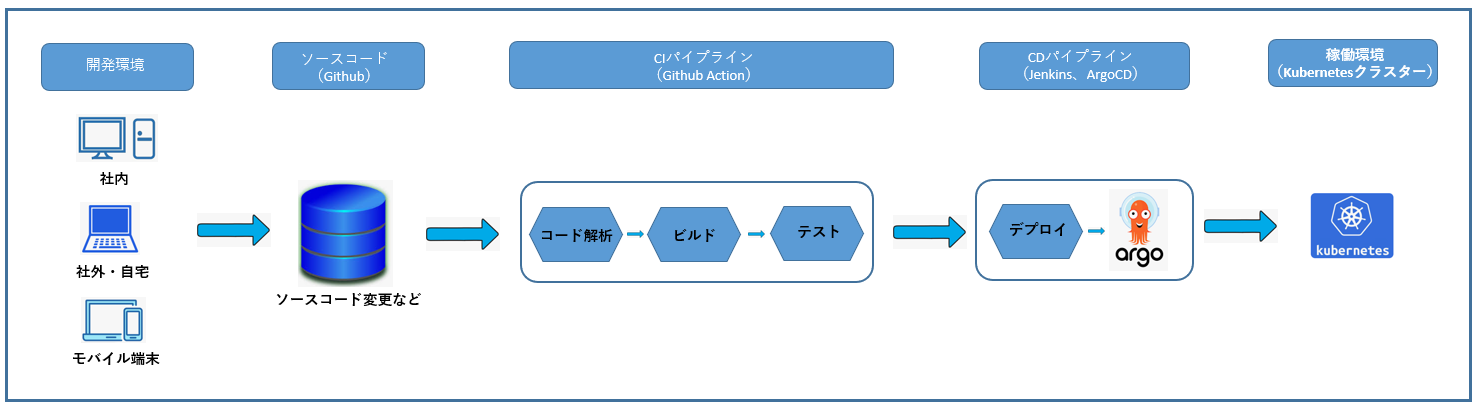
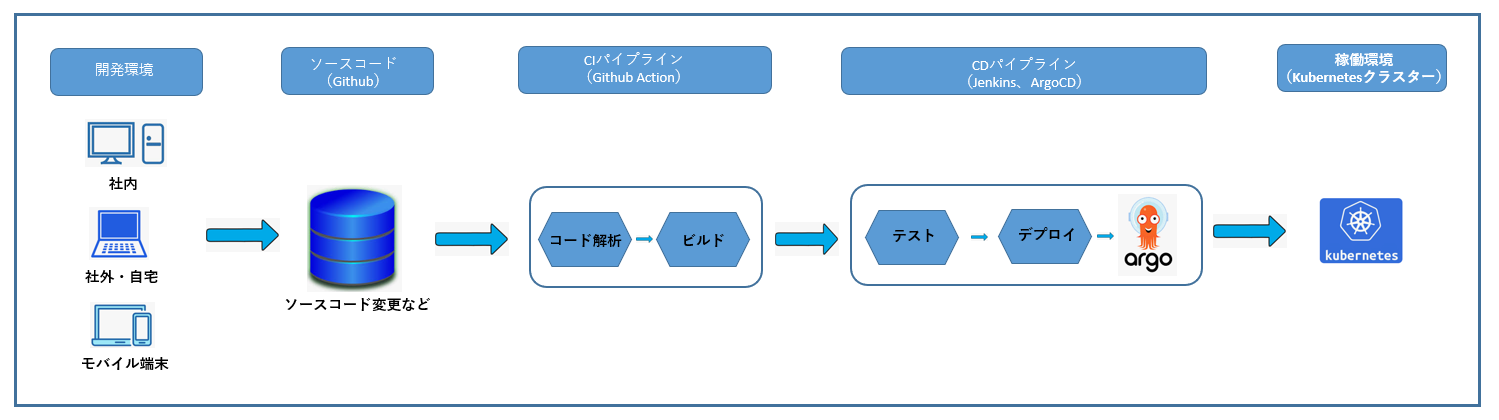
up

diff --git a/wwwroot/showlist-dx.php b/wwwroot/showlist-dx.php
@@ -1,0 +1,130 @@
+<!DOCTYPE html>
+<html>
+<?php include("./public/showlist-head.php"); ?>
+<?php include("./public/access-counter.php"); ?>
+<body>
+  <?php include("./public/scripts.php"); ?>
+  <?php include("./public/showlist-bodytop.php"); ?>
+
+  <main id="main">
+
+    <!-- ======= Breadcrumbs ======= -->
+    <section id="breadcrumbs" class="breadcrumbs">
+      <div class="container">
+        <h2>DX化＠Verimas</h2>
+        中小企業のDX化を！
+      </div>
+    </section><!-- End Breadcrumbs -->
+
+    <!-- ======= Blog Section ======= -->
+    <section id="blog" class="blog">
+      <div class="container" data-aos="fade-up">
+
+        <div class="row">
+
+          <div class="col-lg-8 entries">
+
+            <article class="entry">
+              <div class="entry-img">
+                <img src="img/5w1h-dx.jpeg" alt="" class="img-fluid hover-trans-img-big">
+              </div>
+              <h2 class="entry-title">
+                <a href="#">DX化への思考</a>
+              </h2>
+              <div class="entry-meta">
+                <ul>
+                  <li class="d-flex align-items-center"><i class="bi bi-calendar"></i> <a href="#"><time datetime="2023-08-01">August 01, 2023</time></a></li>
+                  <li class="d-flex align-items-center"><i class="bi bi-bell"></i> <a href="#"><?php echo $pageaccess_counter; ?> Read</a></li>
+                </ul>
+              </div>
+              <div class="entry-content">
+                <p>
+                DXって、何でしょうか。DXの正体・本質は？<br>
+                ビジネスの重宝5W1Hから考えたら。<br>
+                ・いつ(When)<br>
+                ・どこで(Where)<br>
+                ・だれが(Who)<br>
+                ・なにを(What)<br>
+                ・なぜ(Why)<br>
+                ・どのように(How)<br>
+                変化の激しい時代のなかで、答えも日々変わってくるでしょうか。<br>
+                大企業ではDX化推進の動きが活発ですが、中小企業においてはまだまだ浸透していないのが現状ですね。そもそも、中小企業においてDX化を推進する必要でしょうか。<br><br>
+                参考資料（経済産業省外部資料）：<br>
+                <a href="https://www.meti.go.jp/shingikai/mono_info_service/digital_transformation_kasoku/20201228_report.html" target="_blank">デジタルトランスフォーメーションの加速に向けた研究会 中間とりまとめ</a><br>
+                <a href="https://www.meti.go.jp/shingikai/mono_info_service/digital_transformation/20180907_report.html" target="_blank">DXレポート ～ITシステム「2025年の崖」克服とDXの本格的な展開～</a><br>
+                </p>
+              </div>
+            </article>
+
+            <article class="entry">
+              <div class="entry-img">
+                <img src="img/dx-3step.png" alt="" width="200%" class="img-fluid hover-trans-img-big">
+              </div>
+              <h2 class="entry-title">
+                <a href="#">DX化への3つのステップ</a>
+              </h2>
+              <div class="entry-content">
+                <p>
+                ・デジタイゼーション（Digitization）<br>
+                ・デジタライゼーション（Digitalization）<br>
+                ・デジタルトランスフォーメーション（DX）<br>
+                </p>
+              </div>
+            </article>
+
+            <article class="entry">
+              <!-- <div class="entry-img">
+                <img src="img/dx-verimas.png" alt="" width="200%" class="img-fluid hover-trans-img-big">
+              </div>-->
+              <h2 class="entry-title">
+                <a href="#">ヴェリマスのDX化取り組み</a>
+              </h2>
+              <div class="entry-content">
+                <p>
+                ・常にDX化5W1Hで業務プロセスを検視し、業務効率化及び生産性向上を求めます。<br>
+                ・業務データ全般をデジタル化した上で、データを段々蓄積し、データ分析・活用を展開します。<br>
+                ・社内コミュニケーションツールをデジタル化します。<br>
+                ・<a href="https://wiki.verimas.co.jp" target="_blank">Wikiシステム</a>をベースに、社内業務・開発業務を全般システム化し、可視化します。<br>
+                ・業務システム全般をクラウド化、システムメンテナンスを自動化します。<br>
+                ・社内も顧客向けでも、ITシステム及び製品開発において、アジャイル開発手法を導入し、積極的運用します。<br>
+                ・常に先端IT技術をキャッチアップし、試作や製品開発を行いながら、DX人材の育成やビジネスモデルの変革を求めます。<br>
+                </p>
+              </div>
+            </article>
+
+          </div>
+
+          <div class="col-lg-4">
+
+            <div class="sidebar">
+              <h3 class="sidebar-title">Tags</h3>
+              <div class="sidebar-item tags">
+                <ul>
+                  <li><a href="#">DX化思考</a></li>
+                  <li><a href="#">5W1H</a></li>
+                  <li><a href="#">中小企業DX化</a></li>
+                  <li><a href="#">デジタイゼーション（Digitization）</a></li>
+                  <li><a href="#">デジタライゼーション（Digitalization）</a></li>
+                  <li><a href="#">デジタルトランスフォーメーション（DX）</a></li>
+                </ul>
+              </div><!-- End sidebar tags-->
+
+              <?php $contacttype = "ショールーム - DX化思考"; ?>
+              <?php include("./public/showlist-contact.php"); ?>
+
+            </div><!-- End sidebar -->
+
+          </div><!-- End blog sidebar -->
+
+        </div>
+
+      </div>
+    </section><!-- End Blog Section -->
+
+  </main><!-- End #main -->
+
+  <?php include("./public/showlist-footer.php"); ?>
+
+</body>
+
+</html>

diff --git a/wwwroot/showroom.php b/wwwroot/showroom.php
@@ -23,6 +23,20 @@
                             </div>
                             <div class="tm-gallery-item">
                               <figure class="effect-bubba">
+                                <img src="img/showlist-dx.jpg" alt="" class="img-fluid">
+                                <figcaption>
+                                  <p style="text-align: left;">DX化取り組み＠Verimas<br>
+                                  <small>
+                                  ➡自身のDX化を推進する<br>
+                                  ➡DX技術人材を育成する<br>
+                                  </small>
+                                  </p>
+                                  <a href="showlist-dx.php" target="_self">View more</a>
+                                </figcaption>
+                              </figure>
+                            </div>
+                            <div class="tm-gallery-item">
+                              <figure class="effect-bubba">
                                 <img src="img/serverless.jpg" alt="" class="img-fluid">
                                 <figcaption>
                                   <p style="text-align: left;">PeTorchインフラ<br>

diff --git a/wwwroot/public/showlist-bodytop.php b/wwwroot/public/showlist-bodytop.php
@@ -2,7 +2,7 @@
   <section id="topbar" class="d-flex align-items-center">
     <div class="container d-flex justify-content-center justify-content-md-between">
       <div class="contact-info d-flex align-items-center">
-        <i class="bi d-flex align-items-center">ショールーム（運用事例）</i>
+        <i class="bi d-flex align-items-center">ショールーム</i>
         <i class="bi d-flex align-items-center ms-4"></i>
       </div>
       <div class="social-links d-none d-md-flex align-items-center">
@@ -24,6 +24,7 @@
 
       <nav id="navbar" class="navbar">
         <ul>
+          <li><a href="showlist-dx.php" title="VerimasのDX化取り組み">DX化＠Verimas</a></li>
           <li><a href="showlist-cicd.php" title="自動化CI/DIを利用したk8sコンテナシステム">Verimasウェブ</a></li>
           <li><a href="showlist-serverless.php" title="サーバーレスアーキテクチャ">PeTorchインフラ</a></li>
           <li><a href="showlist-petai.php" title="画像認識AI、MLモデルのトレーニング">ペット写真認識AI</a></li>

diff --git a/wwwroot/showlist-cicd.php b/wwwroot/showlist-cicd.php
@@ -40,7 +40,7 @@
               <div class="entry-content">
                 <p>
                 この度、ヴェリマスの公式サイトを公開しました。<br>
-                メンテナンスの容易性、将来の拡張性を見据えて、ウェブサイトのインフラからアプリまでクラウドネイティブ化した開発手法で設計・構築を行いました。<br>
+                自社DX化思考を踏め、業務自動化や将来の拡張性を見据えて、ウェブサイトのインフラからアプリまでクラウドネイティブ化した開発手法で設計・構築を行いました。<br>
                 Webサイトアプリをコンテナ化し、各種CI/CDツールを導入し、ソースコード管理・変更から、ビルド・テスト・リリースまで一連のフローを自動化・可視化しました。<br>
                 </p>
               </div>

diff --git a/wwwroot/welcome.php b/wwwroot/welcome.php
@@ -1,7 +1,7 @@
               <div class="tm-section-wrap">
                 <section id="welcome" class="tm-section">
                     <div class="tm-intro">
-                    <h2 class="tm-section-title mb-5 text-uppercase tm-color-white">ようこそ、ヴェリマスへ</h2>
+                    <h2 class="tm-section-title mb-5 text-uppercase tm-color-white">ヴェリマスへようこそ！</h2>
                         <div class="indeximage">
                             <ul>
                                 <li class="indeximglistitem"><img src="img/dx.jpg" class="indeximg-img-01" title="Verimas.DX"></li>
